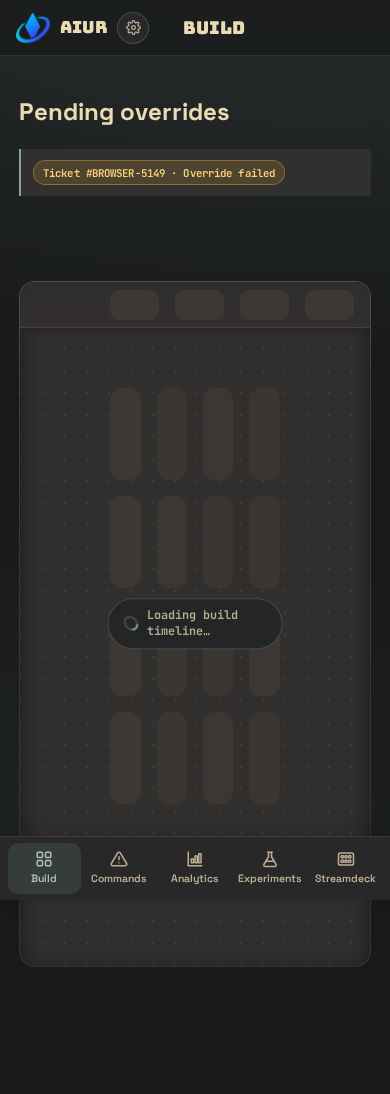
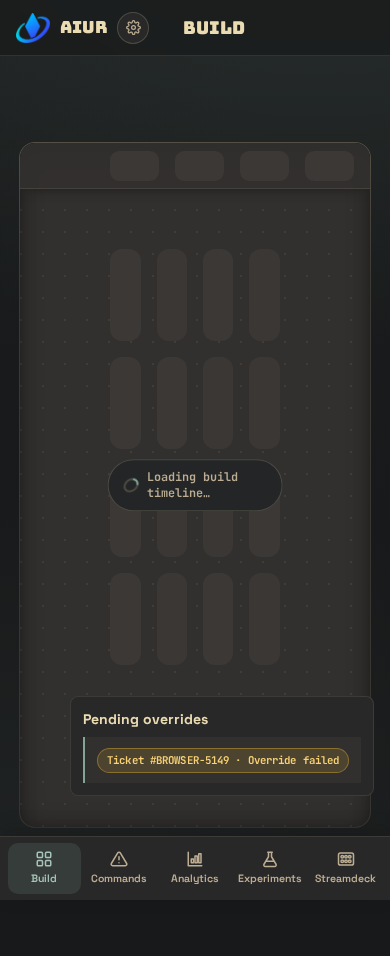
Keep override summaries off the timeline

diff --git a/src/priv/static/css/16-commands-2.css b/src/priv/static/css/16-commands-2.css
@@ -383,3 +383,25 @@
 
 .override-timeline li { display: flex; flex-wrap: wrap; gap: 8px; overflow-wrap: anywhere; }
 .override-timeline .chip, .override-badge, .fleet-override-badge { max-width: 100%; white-space: normal; overflow-wrap: anywhere; }
+
+/* Override status must not change the Build board's grid or capture geometry. */
+.fleet-overrides {
+  position: fixed;
+  right: 16px;
+  bottom: 16px;
+  z-index: 40;
+  box-sizing: border-box;
+  width: max-content;
+  max-width: min(24rem, calc(100vw - 32px));
+  max-height: 40vh;
+  overflow: auto;
+  padding: 12px;
+  border: 1px solid var(--line);
+  border-radius: 8px;
+  background: var(--surface);
+}
+.fleet-overrides h2 { margin: 0 0 8px; font-size: 0.875rem; line-height: 1.25rem; }
+.fleet-overrides p { margin: 0; }
+@media (max-width: 767px) {
+  .fleet-overrides { bottom: calc(6.5rem + env(safe-area-inset-bottom, 0px)); }
+}

diff --git a/website/docs-app/concepts/commands.md b/website/docs-app/concepts/commands.md
@@ -253,8 +253,8 @@ in PR #N (awaiting merge)”; the durable state remains delivered until merge
 evidence confirms it. Inbox badges remain until implementation
 or supersession.
 
-The Build fleet overview also lists pending overrides with
-ticket numbers and links to their Commands; `aiur commands` includes the same state and links in its override
+The Build fleet overview shows a floating summary with ticket numbers and
+Command links, keeping the timeline in place; `aiur commands` includes the same state and links in its override
 column. The Stream Deck status reads “override queued” or “override delivered”.
 
 Both revise and supersede use the current active answer's precedence:
